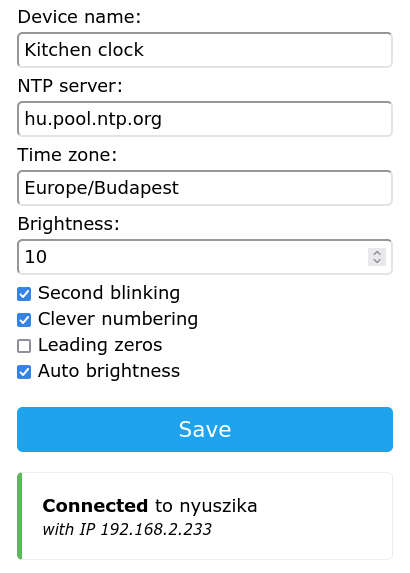
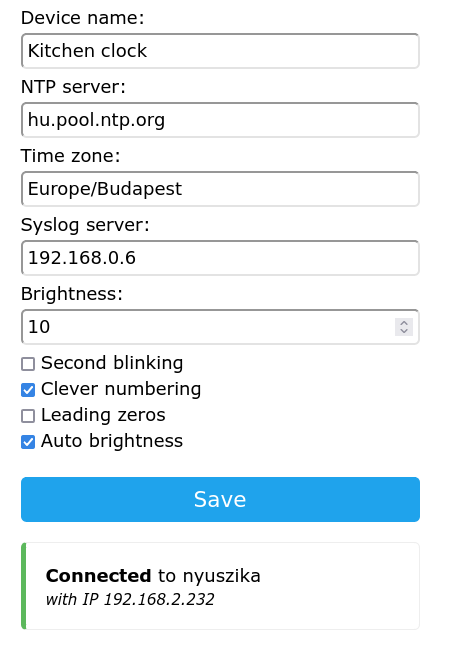
doc update: syslog was added

Changed region(s): [[0.0293, 0.0, 0.9659, 0.6824], [0.0878, 0.8604, 0.6439, 0.9494], [0.0293, 0.712, 0.9659, 0.9791]]

diff --git a/README.md b/README.md
@@ -16,11 +16,11 @@ It is worth to change factory firmware on your clock under the name of "Baiyangs
 * [x] Time zone management with automatic DST support.
 * [x] OTA of Arduino IDE. Password is the same as the name of the AP.
 * [x] Automatic brightness controll.
+* [x] Syslog capabilities.
 * [ ] Drop down choice as time zone selector (instead of the current simple tex box)
 * [ ] Find out why firmware update via the web UI doesn't work.
 * [ ] Password protected web UI.
 * [ ] MQTT client capabilities
-* [ ] Syslog capabilities.
 
 # The Device
 ![](docs/images/device_picture.png)
